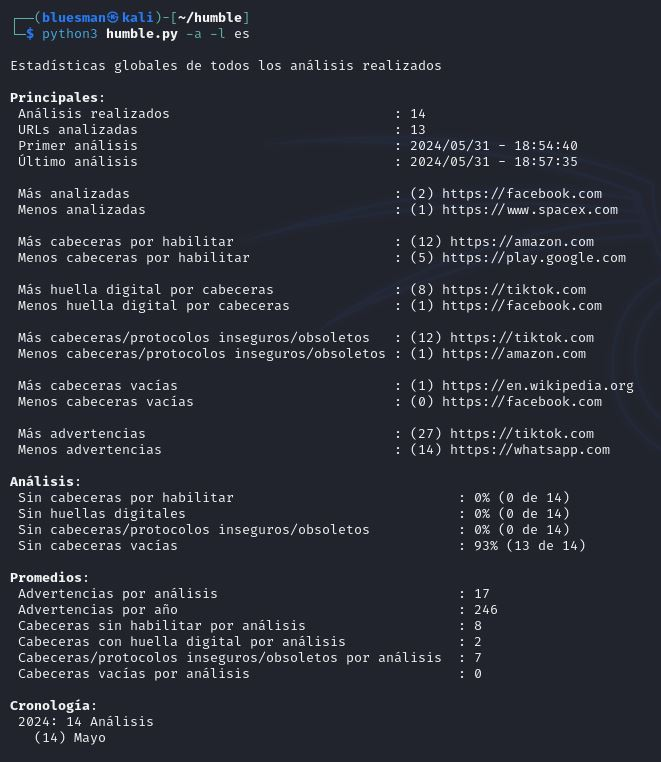
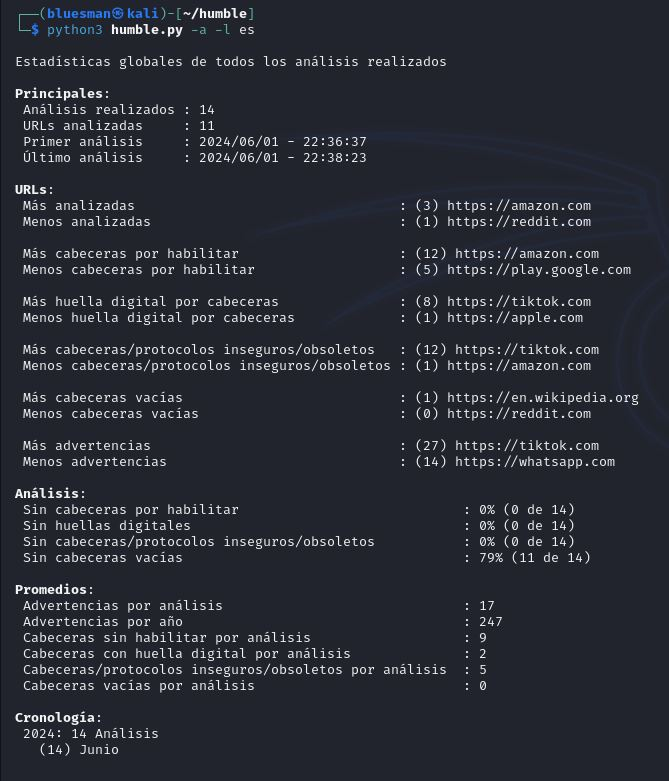
Minor: Improved Global Statistics

diff --git a/humble.py b/humble.py
@@ -556,7 +556,7 @@ def get_basic_global_metrics(total_a, first_m):
             '[total_global_analysis]': str(first_m[2]),
             '[first_analysis_a]': first_m[0],
             '[latest_analysis]': f"{first_m[1]}\n",
-            '[most_analyzed]': first_m[3],
+            '[urls]': "", '[most_analyzed]': first_m[3],
             '[least_analyzed]': f"{first_m[4]}\n",
             '[most_missing]': first_m[7],
             '[least_missing]': f"{first_m[8]}\n",
